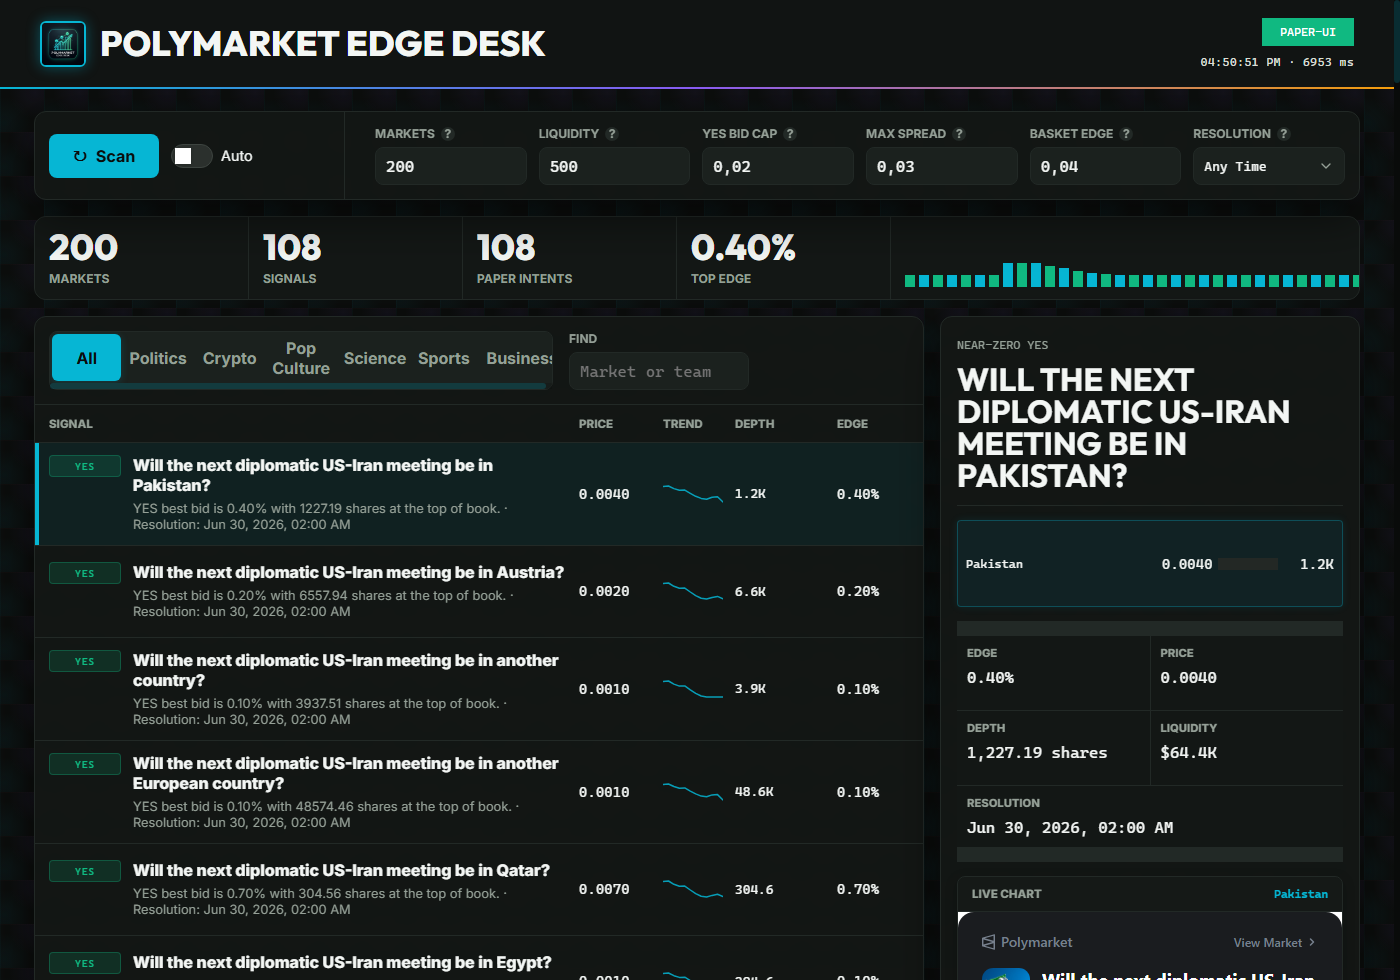
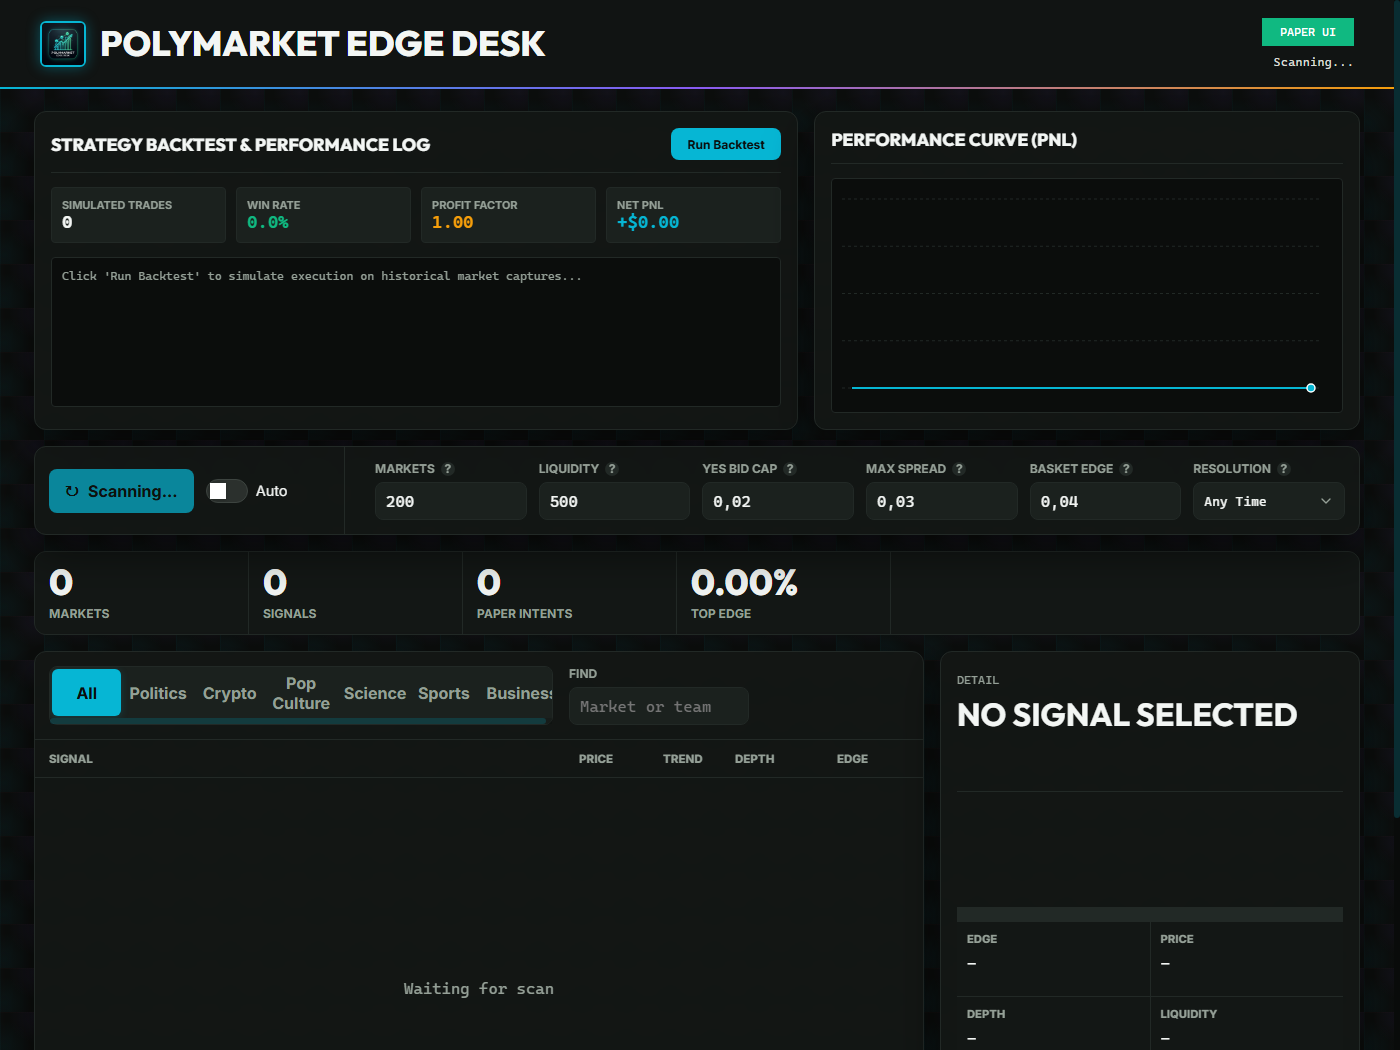
feat: relocate backtest panel to top, initialize with 0 trades, and update README screenshot

diff --git a/public/index.html b/public/index.html
@@ -25,6 +25,48 @@
       </header>
 
       <main class="desk">
+        <!-- Strategy Analytics & Backtesting Panel -->
+        <section class="analytics-band" style="margin-bottom: 16px; display: grid; grid-template-columns: minmax(0, 1.4fr) minmax(320px, 1fr); gap: 16px;">
+          <div class="analytics-card backtest-panel" style="border: 1px solid var(--line); background: rgba(19, 23, 21, 0.88); backdrop-filter: blur(12px); box-shadow: var(--shadow); padding: 16px;">
+            <div style="display: flex; justify-content: space-between; align-items: center; border-bottom: 1px solid var(--line); padding-bottom: 12px; margin-bottom: 14px;">
+              <h3 style="margin: 0; font-family: var(--display); font-size: 1.1rem; text-transform: uppercase; font-weight: 750;">Strategy Backtest & Performance Log</h3>
+              <button class="primary-button" id="runBacktestBtn" style="min-height: 32px; padding: 0 12px; font-size: 0.75rem;" type="button">Run Backtest</button>
+            </div>
+            <div class="analytics-stats-grid" style="display: grid; grid-template-columns: repeat(4, 1fr); gap: 10px; margin-bottom: 14px;">
+              <div style="background: var(--field); border: 1px solid var(--line); padding: 10px; border-radius: 4px;">
+                <span style="font-size: 0.68rem; color: var(--muted); display: block; text-transform: uppercase; font-weight: 700;">Simulated Trades</span>
+                <span id="backtestTrades" style="font-family: var(--mono); font-size: 1.1rem; font-weight: 800; color: var(--ink);">0</span>
+              </div>
+              <div style="background: var(--field); border: 1px solid var(--line); padding: 10px; border-radius: 4px;">
+                <span style="font-size: 0.68rem; color: var(--muted); display: block; text-transform: uppercase; font-weight: 700;">Win Rate</span>
+                <span id="backtestWinRate" style="font-family: var(--mono); font-size: 1.1rem; font-weight: 800; color: var(--green);">0.0%</span>
+              </div>
+              <div style="background: var(--field); border: 1px solid var(--line); padding: 10px; border-radius: 4px;">
+                <span style="font-size: 0.68rem; color: var(--muted); display: block; text-transform: uppercase; font-weight: 700;">Profit Factor</span>
+                <span id="backtestProfitFactor" style="font-family: var(--mono); font-size: 1.1rem; font-weight: 800; color: var(--amber);">1.00</span>
+              </div>
+              <div style="background: var(--field); border: 1px solid var(--line); padding: 10px; border-radius: 4px;">
+                <span style="font-size: 0.68rem; color: var(--muted); display: block; text-transform: uppercase; font-weight: 700;">Net PnL</span>
+                <span id="backtestNetPnl" style="font-family: var(--mono); font-size: 1.1rem; font-weight: 800; color: var(--teal);">+$0.00</span>
+              </div>
+            </div>
+            <div id="backtestLog" style="height: 150px; overflow-y: auto; font-family: var(--mono); font-size: 0.74rem; background: #0b0d0c; border: 1px solid var(--line); padding: 10px; color: #a3b2a6; line-height: 1.5; border-radius: 4px;">
+              <div style="color: var(--muted);">Click 'Run Backtest' to simulate execution on historical market captures...</div>
+            </div>
+          </div>
+
+          <div class="analytics-card metric-chart-card" style="border: 1px solid var(--line); background: rgba(19, 23, 21, 0.88); backdrop-filter: blur(12px); box-shadow: var(--shadow); padding: 16px; display: flex; flex-direction: column;">
+            <div style="border-bottom: 1px solid var(--line); padding-bottom: 12px; margin-bottom: 14px;">
+              <h3 style="margin: 0; font-family: var(--display); font-size: 1.1rem; text-transform: uppercase; font-weight: 750;">Performance Curve (PnL)</h3>
+            </div>
+            <div style="flex: 1; min-height: 174px; background: #0b0d0c; border: 1px solid var(--line); border-radius: 4px; position: relative; overflow: hidden; display: flex; align-items: flex-end; padding: 10px;">
+              <div id="pnlCurveSvgContainer" style="width: 100%; height: 100%; min-height: 150px;">
+                <svg id="pnlCurveSvg" width="100%" height="100%" style="overflow: visible;"></svg>
+              </div>
+            </div>
+          </div>
+        </section>
+
         <section class="control-band" aria-label="Scan settings">
           <div class="control-group scan-actions">
             <button class="primary-button" id="scanButton" type="button">
@@ -205,48 +247,6 @@
               View on Polymarket ↗
             </a>
           </aside>
-        </section>
-
-        <!-- Strategy Analytics & Backtesting Panel -->
-        <section class="analytics-band" style="margin-top: 16px; display: grid; grid-template-columns: minmax(0, 1.4fr) minmax(320px, 1fr); gap: 16px;">
-          <div class="analytics-card backtest-panel" style="border: 1px solid var(--line); background: rgba(19, 23, 21, 0.88); backdrop-filter: blur(12px); box-shadow: var(--shadow); padding: 16px;">
-            <div style="display: flex; justify-content: space-between; align-items: center; border-bottom: 1px solid var(--line); padding-bottom: 12px; margin-bottom: 14px;">
-              <h3 style="margin: 0; font-family: var(--display); font-size: 1.1rem; text-transform: uppercase; font-weight: 750;">Strategy Backtest & Performance Log</h3>
-              <button class="primary-button" id="runBacktestBtn" style="min-height: 32px; padding: 0 12px; font-size: 0.75rem;" type="button">Run Backtest</button>
-            </div>
-            <div class="analytics-stats-grid" style="display: grid; grid-template-columns: repeat(4, 1fr); gap: 10px; margin-bottom: 14px;">
-              <div style="background: var(--field); border: 1px solid var(--line); padding: 10px; border-radius: 4px;">
-                <span style="font-size: 0.68rem; color: var(--muted); display: block; text-transform: uppercase; font-weight: 700;">Simulated Trades</span>
-                <span id="backtestTrades" style="font-family: var(--mono); font-size: 1.1rem; font-weight: 800; color: var(--ink);">0</span>
-              </div>
-              <div style="background: var(--field); border: 1px solid var(--line); padding: 10px; border-radius: 4px;">
-                <span style="font-size: 0.68rem; color: var(--muted); display: block; text-transform: uppercase; font-weight: 700;">Win Rate</span>
-                <span id="backtestWinRate" style="font-family: var(--mono); font-size: 1.1rem; font-weight: 800; color: var(--green);">0.0%</span>
-              </div>
-              <div style="background: var(--field); border: 1px solid var(--line); padding: 10px; border-radius: 4px;">
-                <span style="font-size: 0.68rem; color: var(--muted); display: block; text-transform: uppercase; font-weight: 700;">Profit Factor</span>
-                <span id="backtestProfitFactor" style="font-family: var(--mono); font-size: 1.1rem; font-weight: 800; color: var(--amber);">1.00</span>
-              </div>
-              <div style="background: var(--field); border: 1px solid var(--line); padding: 10px; border-radius: 4px;">
-                <span style="font-size: 0.68rem; color: var(--muted); display: block; text-transform: uppercase; font-weight: 700;">Net PnL</span>
-                <span id="backtestNetPnl" style="font-family: var(--mono); font-size: 1.1rem; font-weight: 800; color: var(--teal);">+$0.00</span>
-              </div>
-            </div>
-            <div id="backtestLog" style="height: 150px; overflow-y: auto; font-family: var(--mono); font-size: 0.74rem; background: #0b0d0c; border: 1px solid var(--line); padding: 10px; color: #a3b2a6; line-height: 1.5; border-radius: 4px;">
-              <div style="color: var(--muted);">Click 'Run Backtest' to simulate execution on historical market captures...</div>
-            </div>
-          </div>
-
-          <div class="analytics-card metric-chart-card" style="border: 1px solid var(--line); background: rgba(19, 23, 21, 0.88); backdrop-filter: blur(12px); box-shadow: var(--shadow); padding: 16px; display: flex; flex-direction: column;">
-            <div style="border-bottom: 1px solid var(--line); padding-bottom: 12px; margin-bottom: 14px;">
-              <h3 style="margin: 0; font-family: var(--display); font-size: 1.1rem; text-transform: uppercase; font-weight: 750;">Performance Curve (PnL)</h3>
-            </div>
-            <div style="flex: 1; min-height: 174px; background: #0b0d0c; border: 1px solid var(--line); border-radius: 4px; position: relative; overflow: hidden; display: flex; align-items: flex-end; padding: 10px;">
-              <div id="pnlCurveSvgContainer" style="width: 100%; height: 100%; min-height: 150px;">
-                <svg id="pnlCurveSvg" width="100%" height="100%" style="overflow: visible;"></svg>
-              </div>
-            </div>
-          </div>
         </section>
       </main>
     </div>

diff --git a/public/app.js b/public/app.js
@@ -822,8 +822,8 @@ if (backtestBtn) {
   backtestBtn.addEventListener("click", () => runBacktest());
 }
 
-// Draw initial backtest on load
-setTimeout(() => runBacktest(), 500);
+// Draw initial flat baseline chart representing 0 trades on load
+setTimeout(() => drawPnlCurve([0, 0]), 200);
 
 // Adjust SVG on window resize
 window.addEventListener("resize", () => {